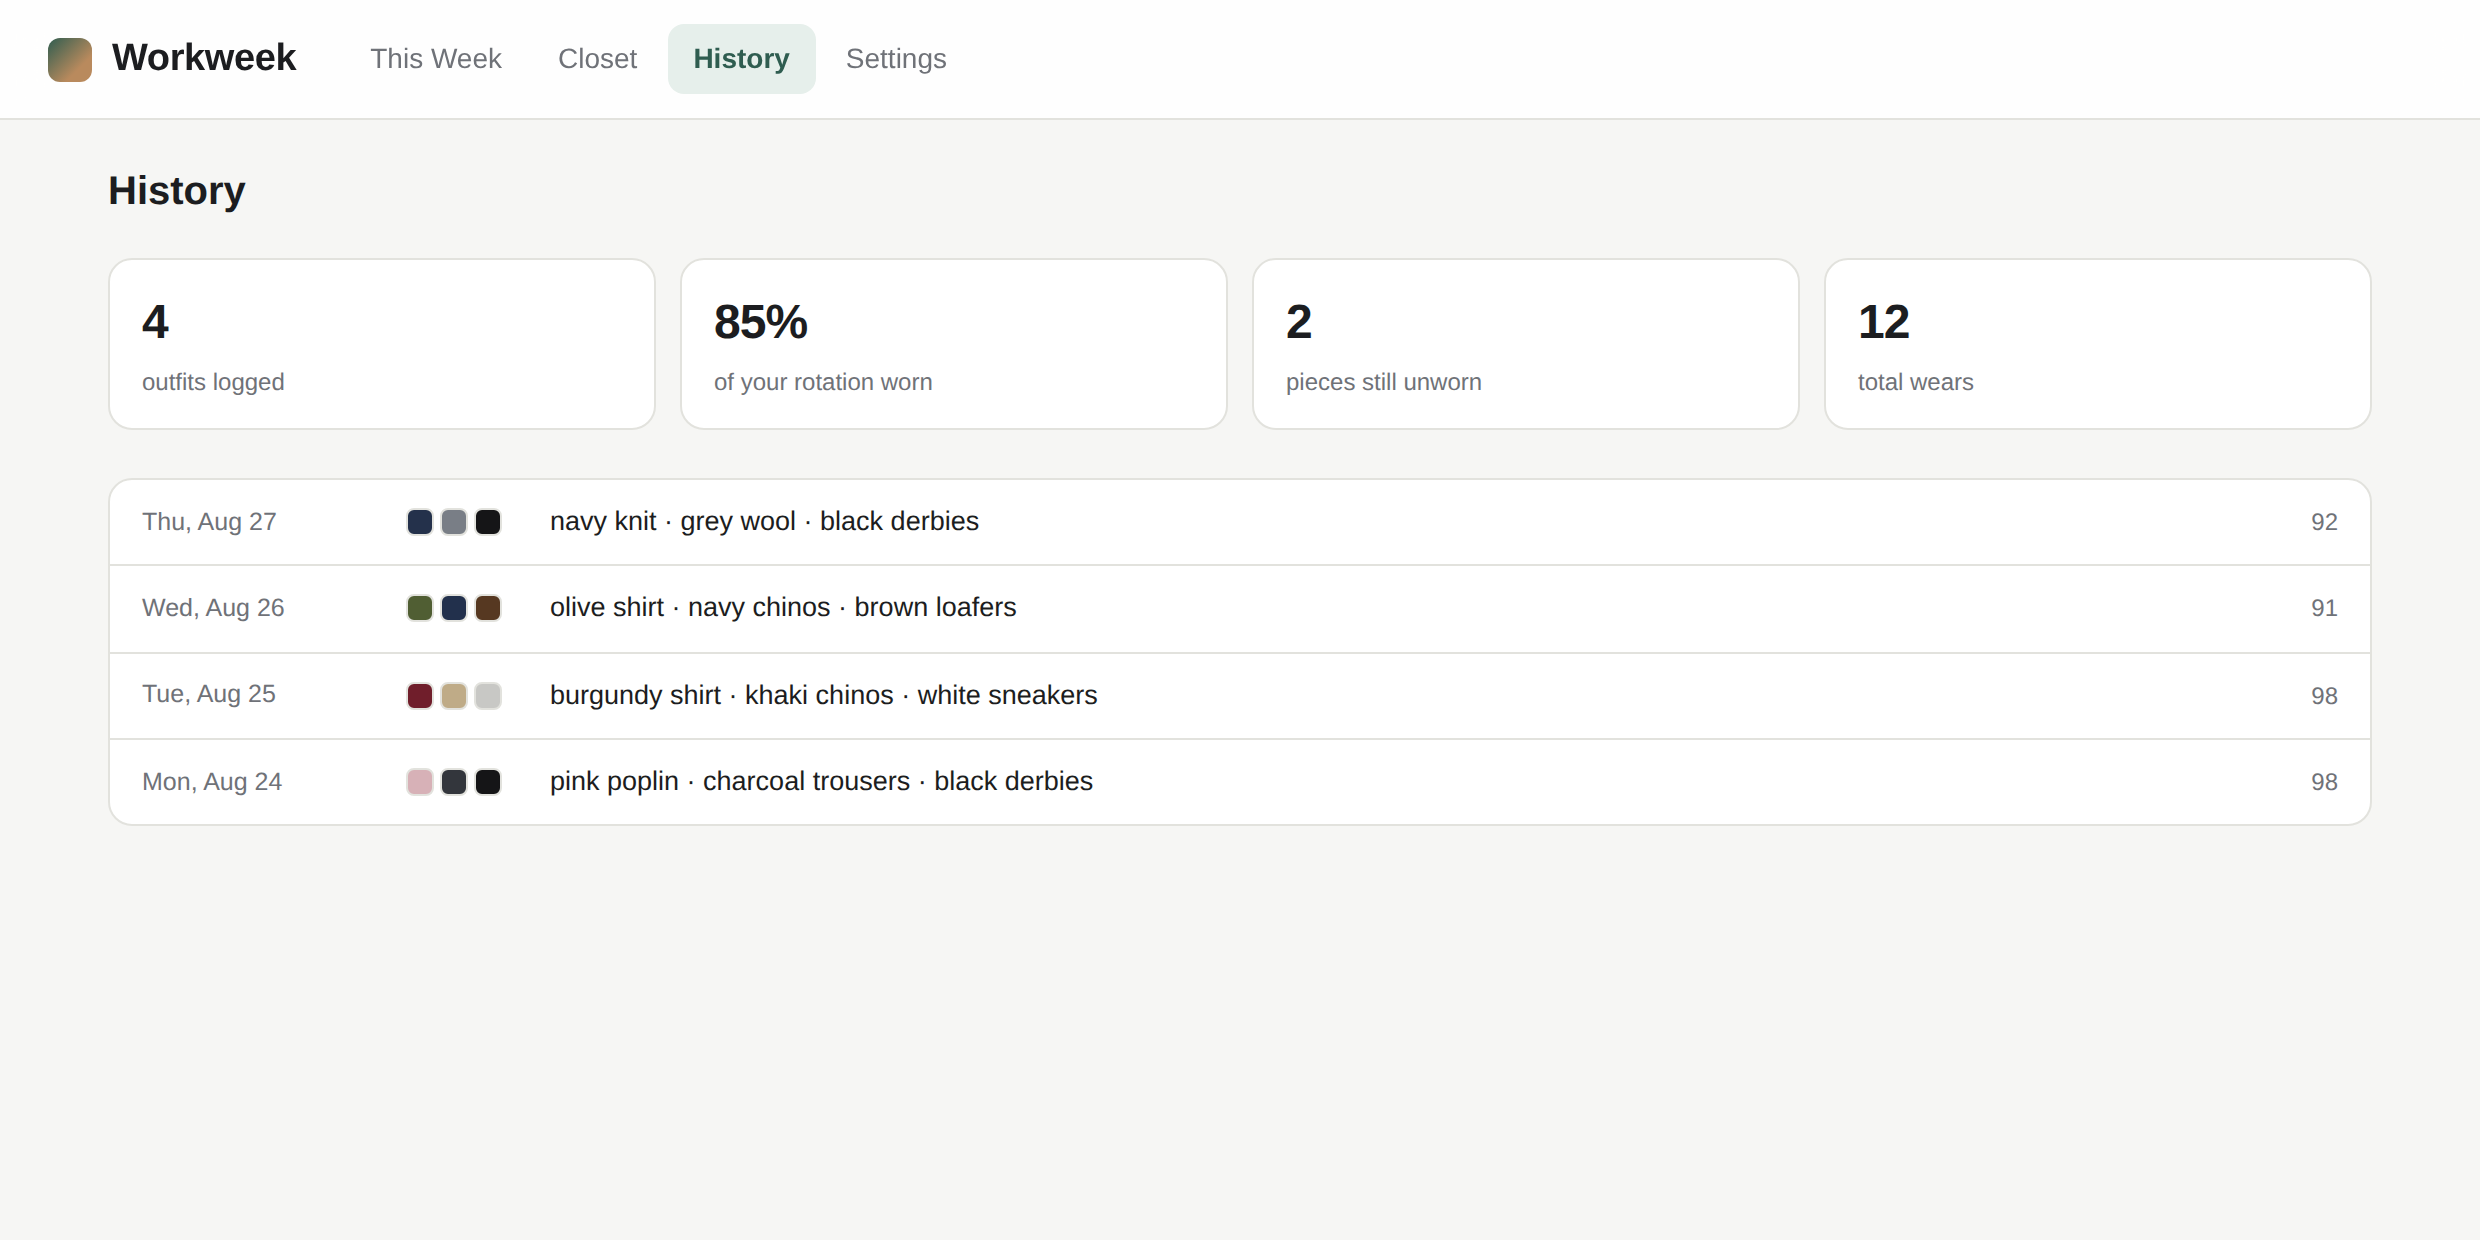
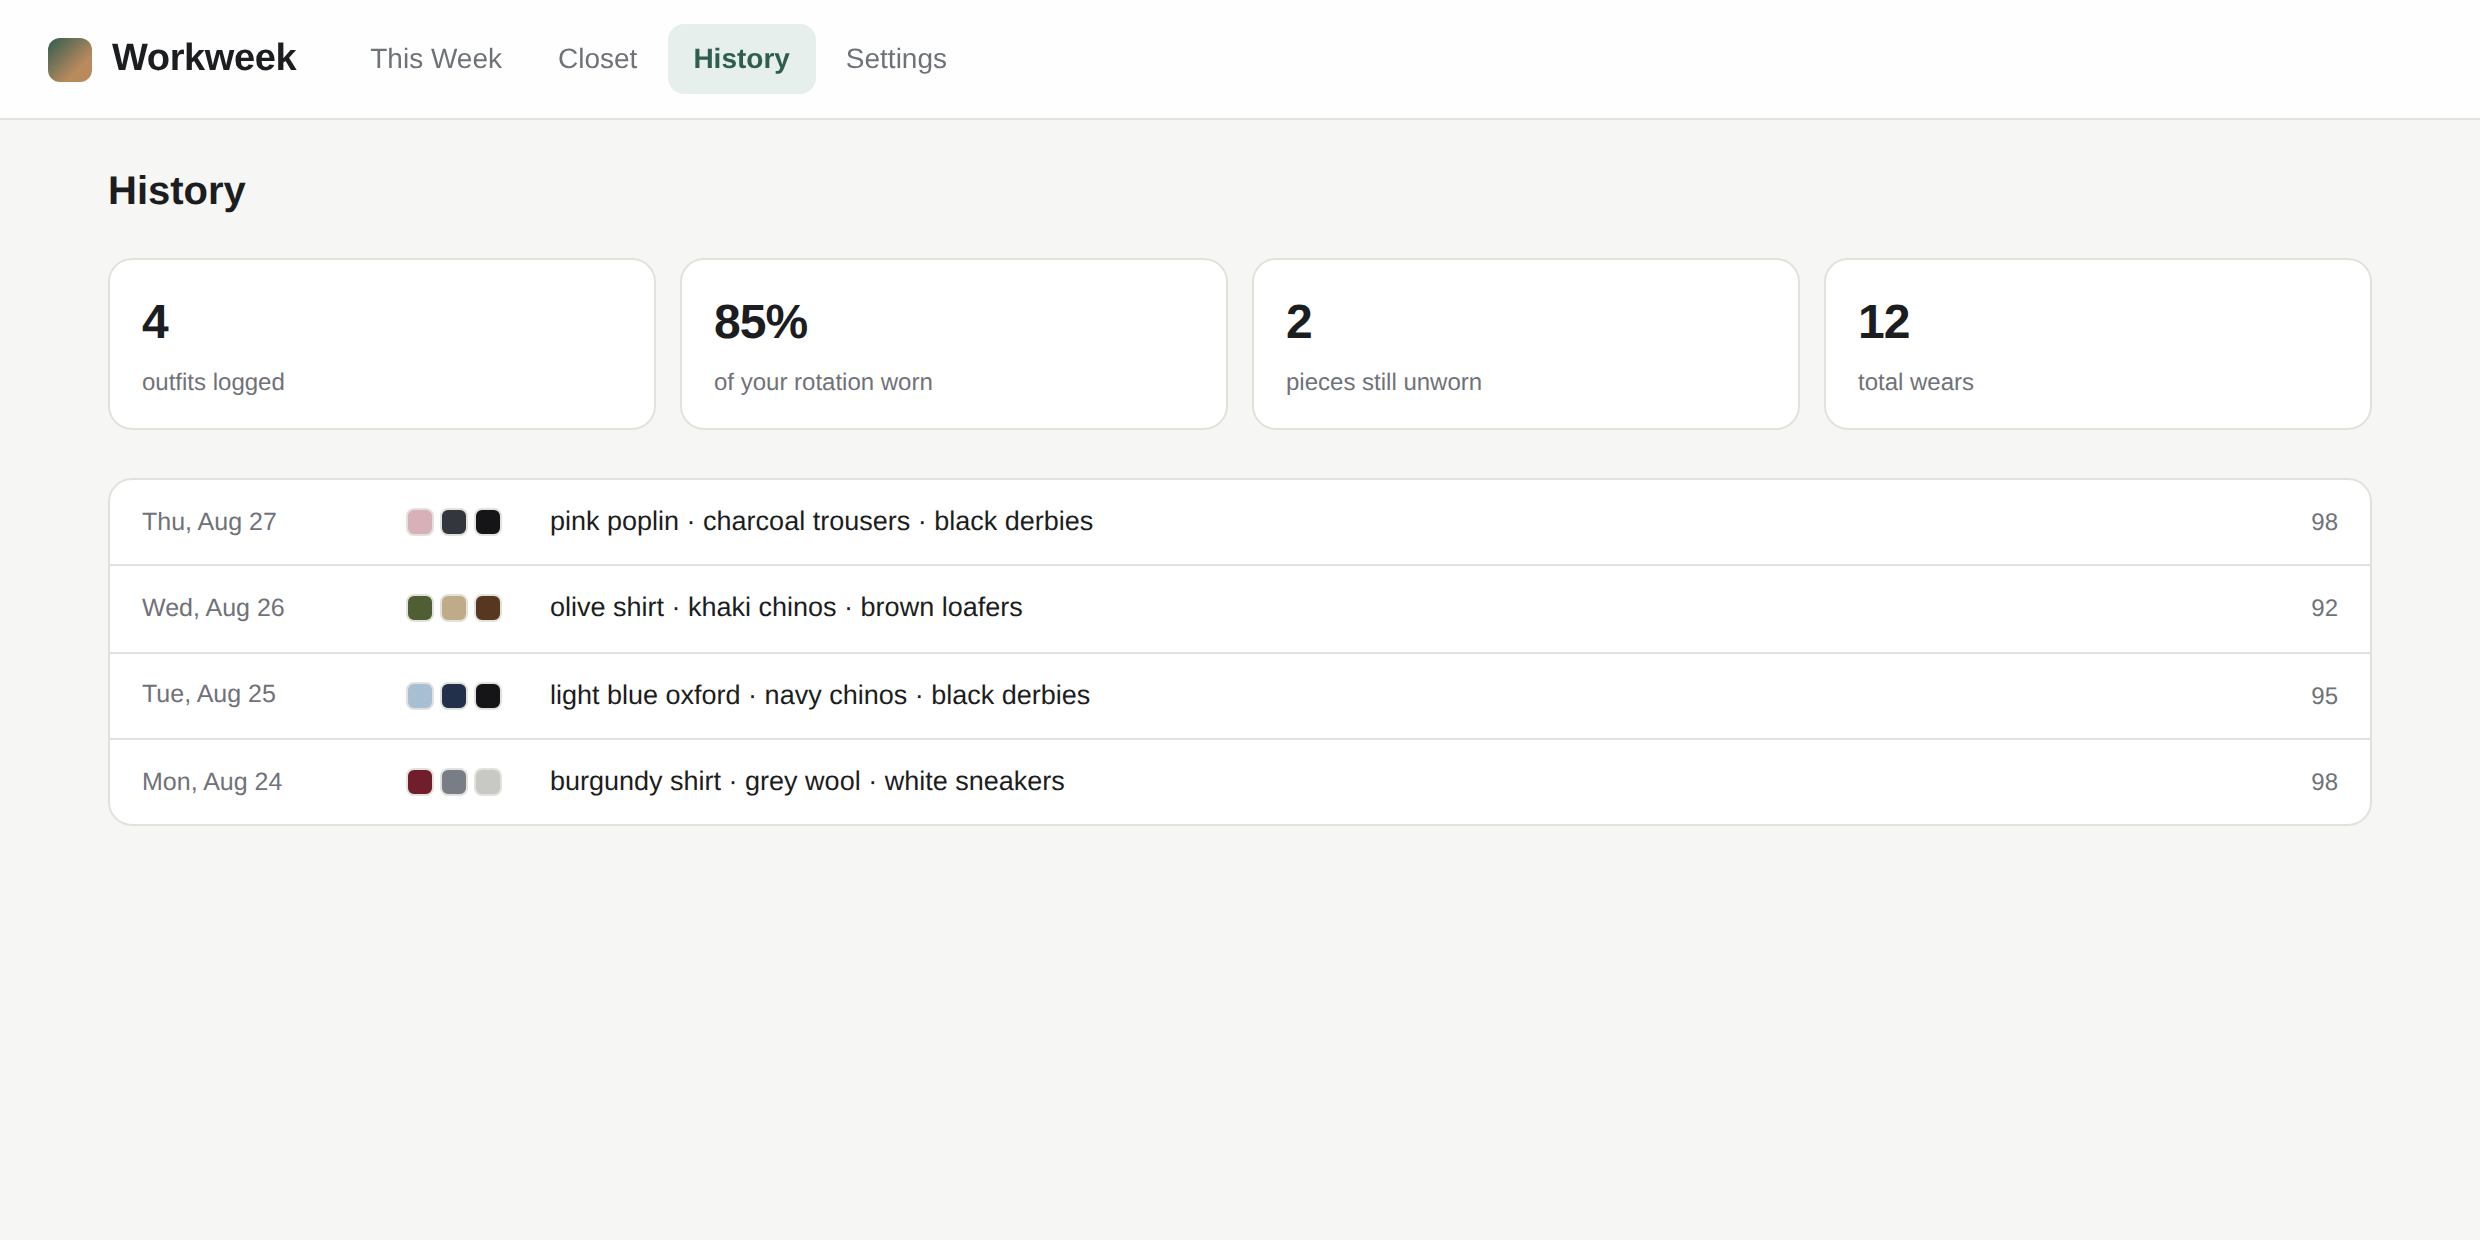
Crop garment photos to squares
Closet cards were 3:4 with the photo letterboxed inside; shirts shot in
landscape and trousers shot in portrait therefore filled their frames very
differently. Frames are now 1:1 and the photo fills them edge to edge via
object-fit: cover, centre-cropped. Week thumbnails already had square frames
but letterboxed within them, so they get the same treatment.

Applied to shoes as well as shirts and trousers: a grid mixing square cards
with 3:4 ones would have ragged row heights.

This trades away some of the garment for a uniform grid, which is the point of
the change, but the crop is centred and garments are photographed centred, so
it takes background rather than sleeve.

aspect-ratio alone was not enough. As a column flex item the frame gets
min-height:auto, whose content-based minimum is the photo's own scaled height,
and that quietly wins over aspect-ratio — a 9:16 photo rendered 213x380 rather
than 213x213. min-height:0 restores it.

Verified with deliberately non-square fixtures (16:9 and 9:16, edge-marked so
the crop is visible) that every frame comes out exactly square from any source
aspect, in both the closet and the week view.

Claude-Session: https://claude.ai/code/session_017diFJ6E3PX5swqonS2Gxdn

diff --git a/styles.css b/styles.css
@@ -168,11 +168,10 @@ main { max-width: 1180px; margin: 0 auto; padding: 24px; }
   width: 76px; height: 76px; flex: none;
   border-radius: 8px; overflow: hidden; border: 1px solid var(--border);
 }
-/* `contain` for the same reason as the closet cards: identifying the garment
-   matters more than a tidy edge. */
+/* Square and filled, matching the closet cards. */
 .thumb img {
-  width: 100%; height: 100%; object-fit: contain; display: block;
-  background: var(--surface-2);
+  width: 100%; height: 100%; object-fit: cover; object-position: center;
+  display: block; background: var(--surface-2);
 }
 
 .piece-meta { display: flex; flex-direction: column; min-width: 0; }
@@ -284,16 +283,19 @@ input[type=color] {
 .item-card.is-benched { opacity: .5; }
 
 .item-thumb {
-  width: 100%; aspect-ratio: 3 / 4;
+  width: 100%; aspect-ratio: 1 / 1;
   border-bottom: 1px solid var(--border);
+  /* As a column flex item this gets min-height:auto, whose content-based
+     minimum is the photo's own scaled height — that silently beats
+     aspect-ratio and lets a portrait shot render tall. */
+  min-height: 0;
 }
-/* `contain`, not `cover`: the point of the picture is to identify the garment,
-   and cropping a photo to fill the frame is exactly how you lose the collar or
-   the pattern that tells two shirts apart. The letterboxing shows the item's
-   own color, which is information rather than filler. */
+/* Square, filled edge to edge. `cover` centre-crops whatever the camera gave
+   us so every card is the same shape regardless of how the photo was framed;
+   garments are shot centred, so the crop takes background rather than sleeve. */
 .item-thumb img {
-  width: 100%; height: 100%; object-fit: contain; display: block;
-  background: var(--surface-2);
+  width: 100%; height: 100%; object-fit: cover; object-position: center;
+  display: block; background: var(--surface-2);
 }
 
 .item-body { padding: 10px 12px 12px; min-width: 0; display: flex; flex-direction: column; }
